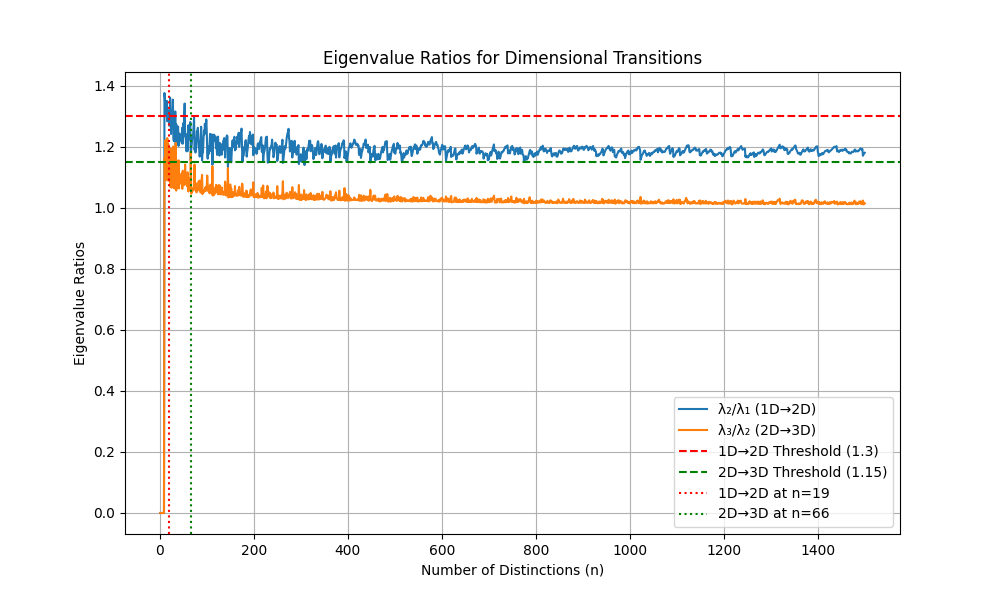
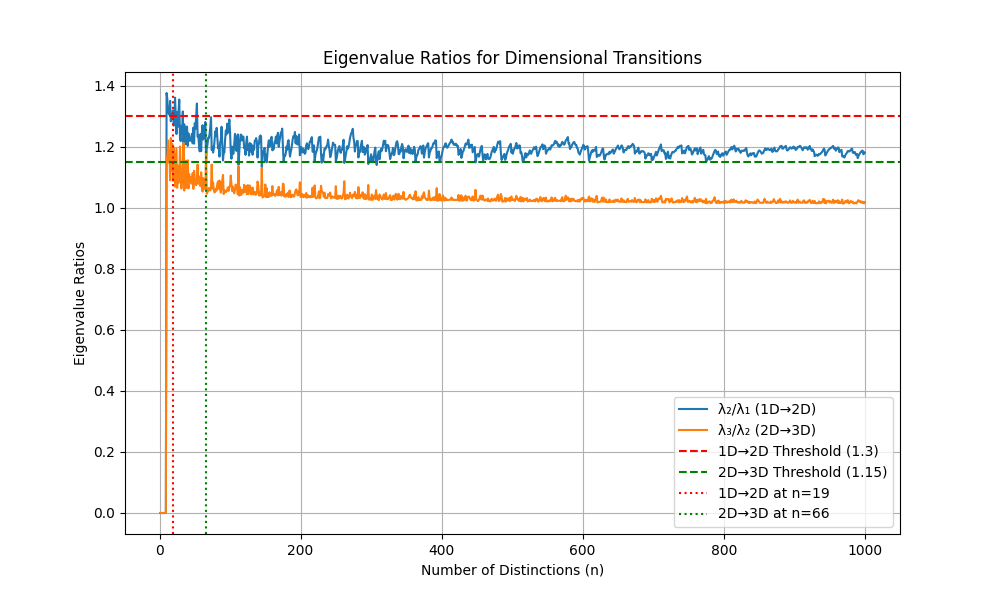
modified:   GU_DIM_Trans.py modified:   eigenvalue_ratios.png modified:   golomb_ruler_growth.png modified:   informational_curvature.png modified:   mutual_information_matrix.png

diff --git a/GU_DIM_Trans.py b/GU_DIM_Trans.py
@@ -293,7 +293,7 @@ def simulate(n_max):
 
 # Run simulation
 print("Starting simulation...")
-results = simulate(1500)
+results = simulate(1000)
 print("\nFinal Results:")
 print(f"1D→2D transition at n={results['2D']}")
 print(f"2D→3D transition at n={results['3D']}")
